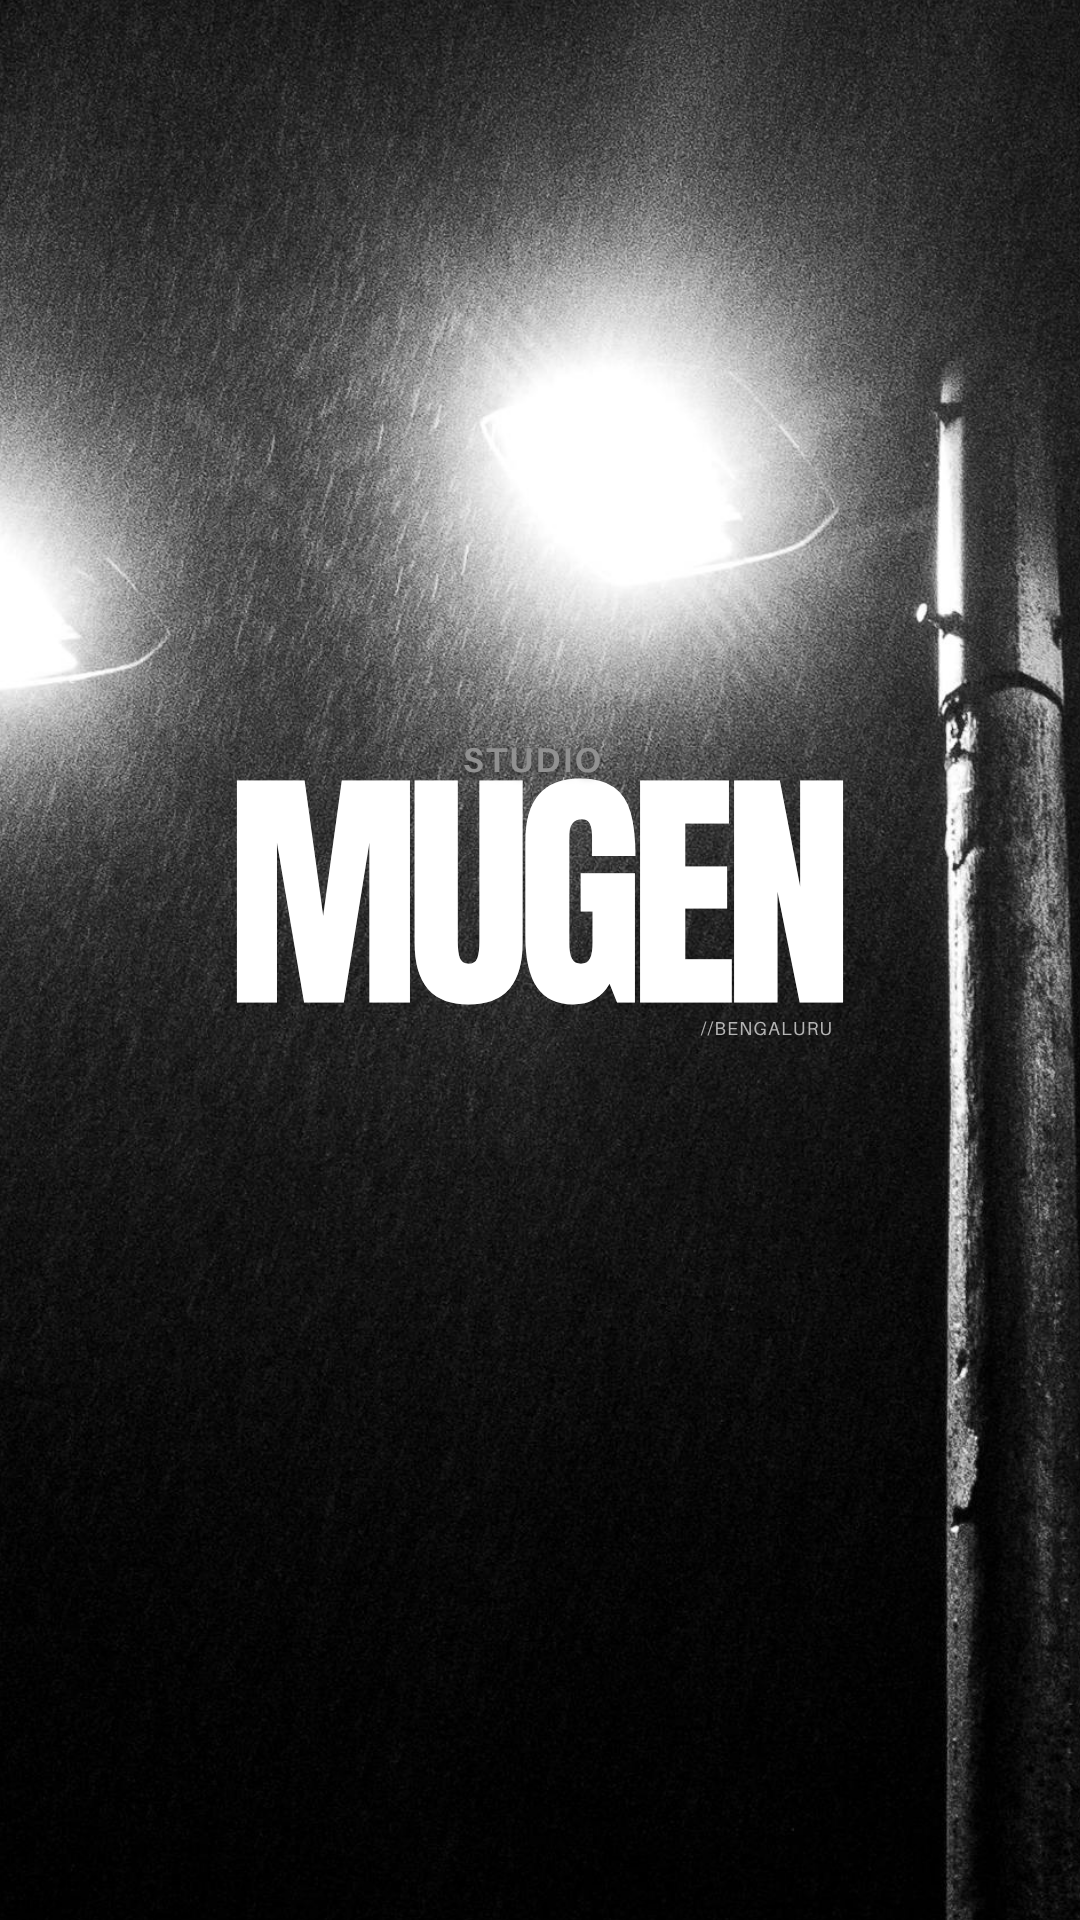
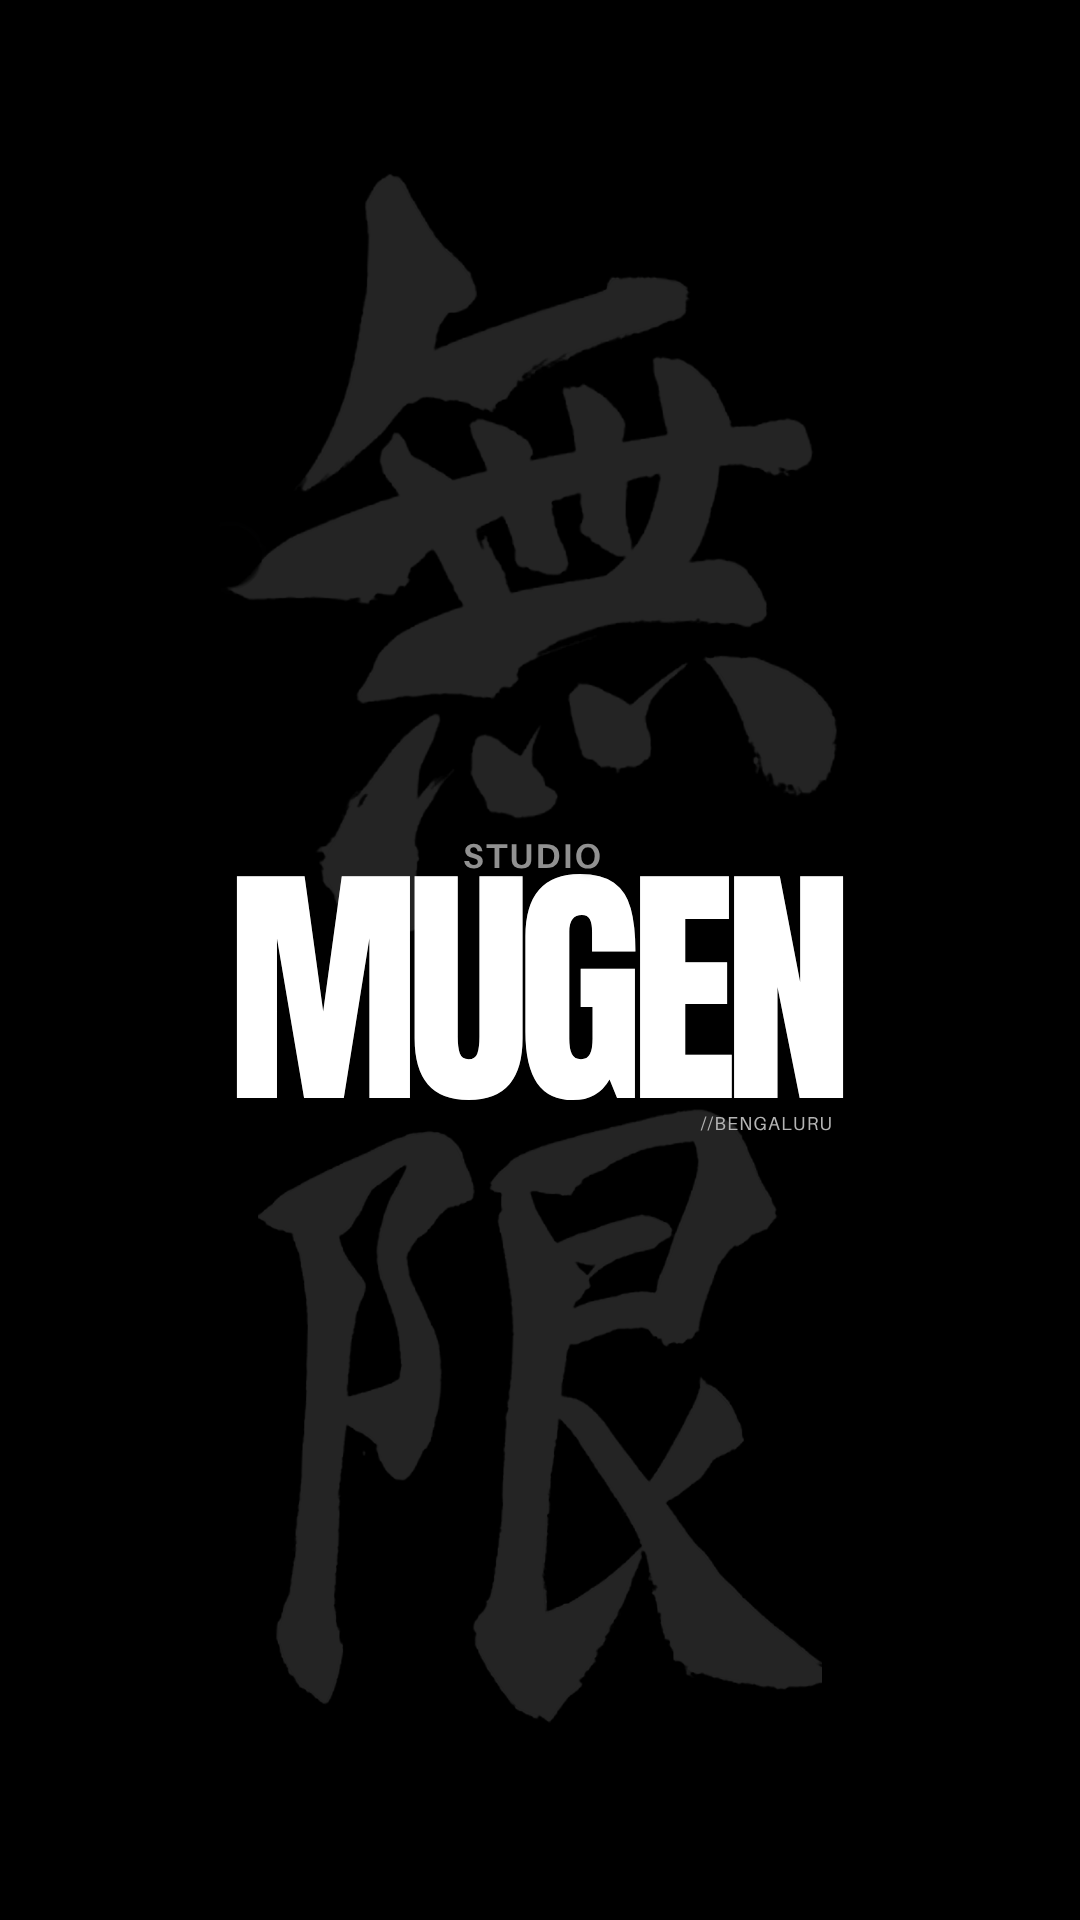
Remove glass from hamburger button, keep on menu overlay

diff --git a/react-app/src/components/nav/Navbar.tsx b/react-app/src/components/nav/Navbar.tsx
@@ -141,11 +141,8 @@ export default function Navbar() {
         className="md:hidden flex items-center justify-center"
         onClick={() => setMenuOpen(!menuOpen)}
         style={{
-          background: 'rgba(0,0,0,0.25)',
-          backdropFilter: 'blur(8px)',
-          WebkitBackdropFilter: 'blur(8px)',
-          border: '1px solid rgba(255,255,255,0.15)',
-          borderRadius: '6px',
+          background: 'none',
+          border: 'none',
           padding: '8px',
           cursor: 'pointer',
           width: '34px',